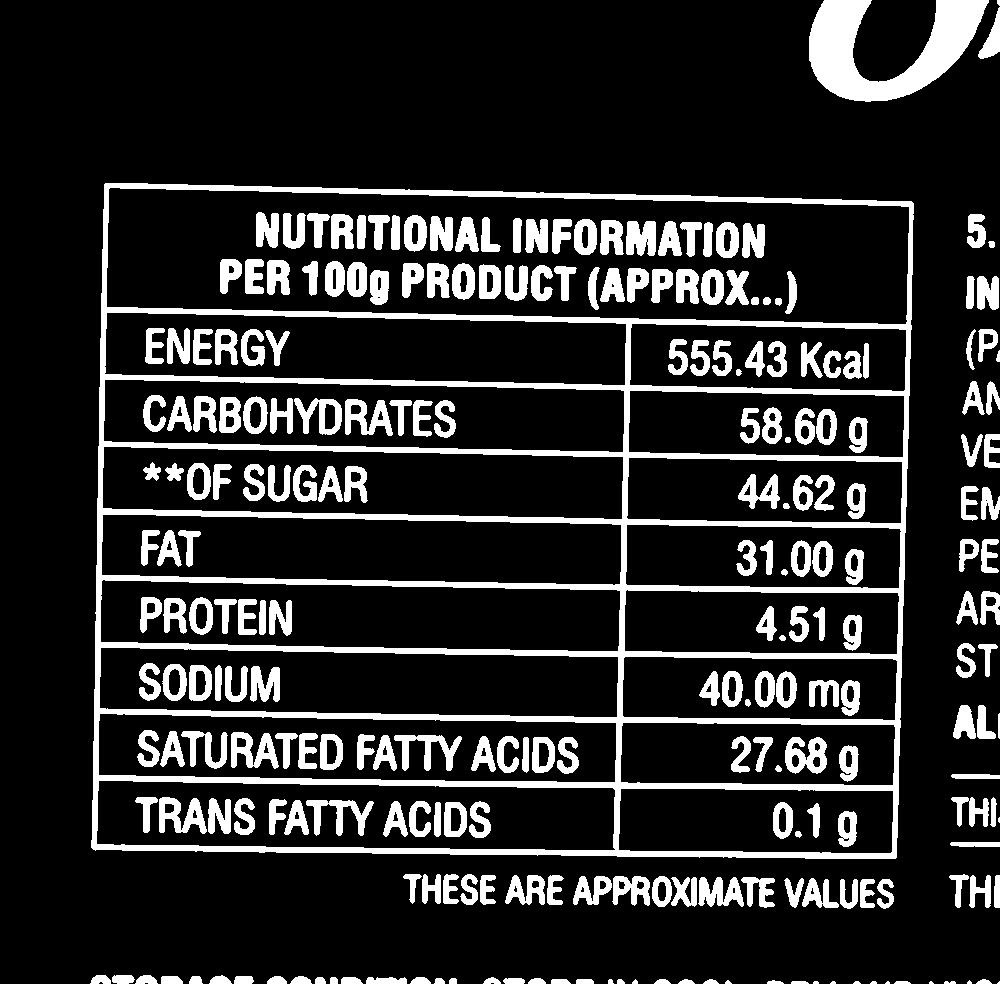
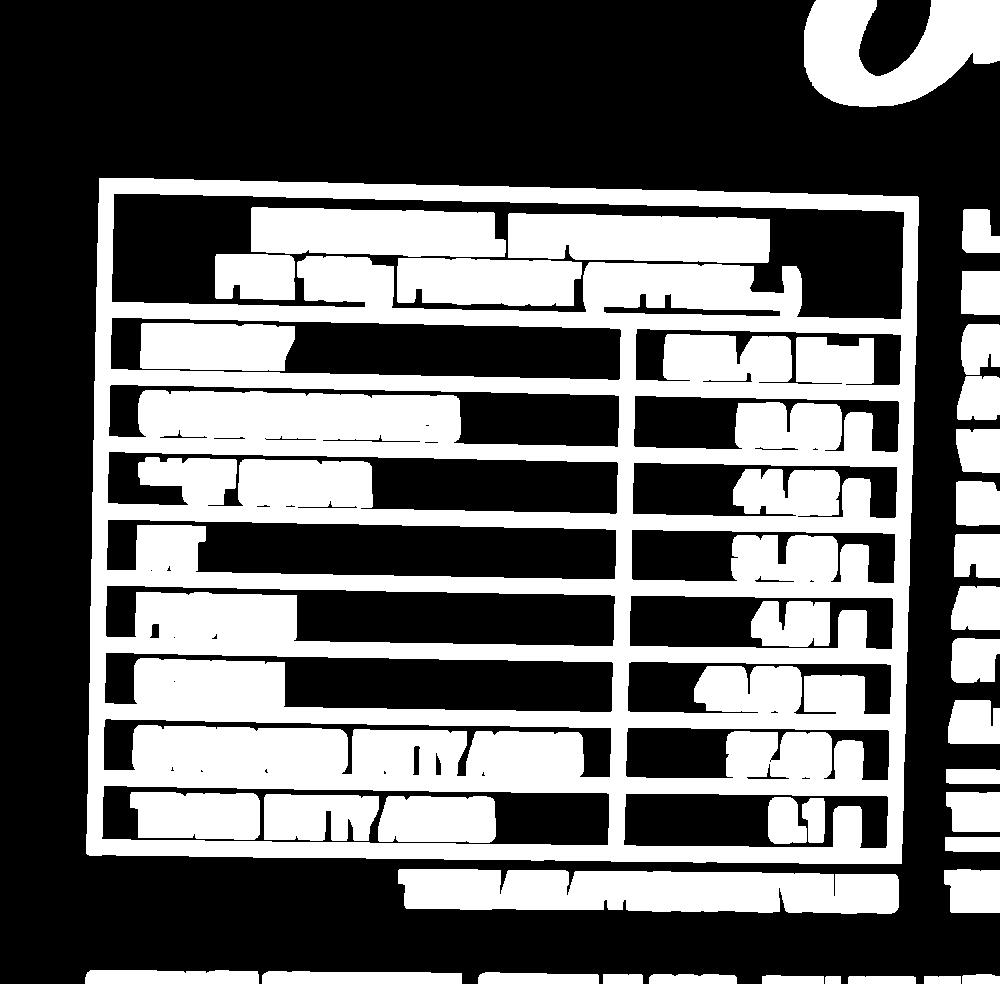
TableExtractor class works till "find_contours"

Changed region(s): [[0.062, 0.1829, 1.0, 0.9451], [0.062, 0.9756, 1.0, 1.0], [0.806, 0.0, 1.0, 0.122]]

diff --git a/TableExtractor.py b/TableExtractor.py
@@ -57,20 +57,21 @@ class TableExtractor:
         self.inverted_image  = np.invert(self.thresholded_image)#cv2.bitwise_not(self.thresholded_image)
 
     def dilate_image(self):
-        self.dilated_image = morphology.dilation(self.inverted_image)
+
+        # Finally, apply a dilation operation to enlarge foreground regions
+        self.dilated_image = morphology.dilation(self.inverted_image, morphology.square(13))
 
     def find_contours(self):
         # Find contours in the dilated binary image
-        self.contours = measure.find_contours(self.dilated_image, level=0.5)
-        self.image_with_all_contours = self.image.copy()
+        self.contours = measure.find_contours(self.dilated_image, level=0.8)
 
-        # Visualize the original image and contours
-        fig, ax = plt.subplots()
-        ax.imshow(self.image_with_all_contours, cmap='gray')
+        # Create an empty image to draw contours on
+        self.image_with_all_contours = np.zeros_like(self.dilated_image, dtype=np.uint8)
 
-        # Plot each contour on the image
+        # Draw each contour on the image
         for contour in self.contours:
-            ax.plot(contour[:, 1], contour[:, 0], linewidth=2, color='lime')
+            rr, cc = draw.polygon(contour[:, 0], contour[:, 1])
+            self.image_with_all_contours[rr, cc] =1
 
 
 
@@ -159,6 +160,14 @@ class TableExtractor:
     
     def store_process_image(self, file_name, image):
         path = "./process_images/table_extractor/" + file_name
-        io.imsave(path,  (image * 255).astype(np.uint8))
+        # Convert the image to uint8 format (if it's not already)
+        image_uint8 = (image * 255).astype(np.uint8)
+
+        # Create a Pillow Image object
+        image_pillow = Image.fromarray(image_uint8)
+
+        # Save the image using Pillow
+        image_pillow.save(path)
+
         
         
